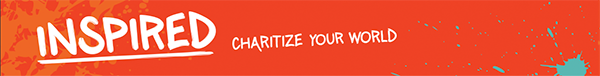
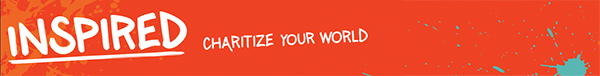
masthead

Changed region(s): [[0.0, 0.0, 0.69, 1.0], [0.6, 0.9474, 0.69, 1.0], [0.24, 0.0, 0.27, 0.0263]]

diff --git a/impact/index.html b/impact/index.html
@@ -107,7 +107,7 @@
 </table>
 <!-- End of preheader -->       
 <!-- Start of header 1-->
-<table width="100%" bgcolor="#f5f5f5" cellpadding="0" cellspacing="0" border="0" id="backgroundTable" st-sortable="header">
+<table width="100%" bgcolor="#f5f5f5" cellpadding="0" cellspacing="0" border="0" id="backgroundTable" st-sortable="banner">
    <tbody>
       <tr>
          <td>
@@ -119,11 +119,11 @@
                            <tbody>
                               <tr>
                                  <td>
-                                    <!-- logo and links-->
-                                    <table bgcolor="#ffffff" width="600" align="left" border="0" cellpadding="0" cellspacing="0" class="devicewidth">
+                                    <!-- logo masthead-->
+                                    <table bgcolor="#ffffff" width="600" align="center" border="0" cellpadding="0" cellspacing="0" class="devicewidth">
                                        <tbody>
                                           <tr>
-                                             <td width="600" height="37" align="center">
+                                             <td align="center" st-image="banner-image">
                                                 <div class="imgpop">
                                                    <a target="_blank" href="#">
                                                    <img src="http://dmitri.github.io/jet/impact/images/masthead.png" alt="" border="0" width="600" height="76" style="display:block; border:none; outline:none; text-decoration:none;">
@@ -131,16 +131,6 @@
                                                 </div>
                                              </td>
                                           </tr>
-                                          <tr>
-                                             <td height="37" align="center" valign="middle" style="font-family: Helvetica, arial, sans-serif; font-size: 13px;color: #282828" st-content="menu">
-                                                <a href="#" style="color: #282828;text-decoration: none; font-weight: bold;">Degree Programs</a>
-                                                &nbsp;|&nbsp;
-                                                <a href="#" style="color: #282828;text-decoration: none; font-weight: bold;">Certificates</a>
-                                                &nbsp;|&nbsp;
-                                                <a href="#" style="color: #282828;text-decoration: none; font-weight: bold;">Courses</a>
-                                                &nbsp;&nbsp;&nbsp;
-                                             </td>
-                                          </tr>
                                        </tbody>
                                     </table>
                                  </td>
@@ -157,15 +147,15 @@
 </table>
 <!-- End of Header -->
 
-<!-- Start of horizontal rule -->
-<table width="100%" bgcolor="#ffffff" cellpadding="0" cellspacing="0" border="0" id="backgroundTable" st-sortable="separator">
+<!-- Start of spacer -->
+<table width="100%" bgcolor="#f5f5f5" cellpadding="0" cellspacing="0" border="0" id="backgroundTable" st-sortable="separator">
    <tbody>
       <tr>
          <td>
             <table width="600" align="center" cellspacing="0" cellpadding="0" border="0" class="devicewidth">
                <tbody>
                   <tr>
-                     <td align="center" height="60" style="font-size:1px; line-height:1px;"><hr color="#cccccc" /></td>
+                     <td align="center" height="20" style="font-size:1px; line-height:1px;">&nbsp;</td>
                   </tr>
                </tbody>
             </table>
@@ -173,79 +163,10 @@
       </tr>
    </tbody>
 </table>
-<!-- End of horizontal rule -->
-
-<!-- Start of header 2-->
-<table width="100%" bgcolor="#ffffff" cellpadding="0" cellspacing="0" border="0" id="backgroundTable" st-sortable="header">
-   <tbody>
-      <tr>
-         <td>
-            <table width="600" cellpadding="0" cellspacing="0" border="0" align="center" class="devicewidth">
-               <tbody>
-                  <tr>
-                     <td width="100%">
-                        <table width="600" bgcolor="#ffffff" cellpadding="0" cellspacing="0" border="0" align="center" class="devicewidth">
-                           <tbody>
-                              <tr>
-                                 <td>
-                                    <!-- logo and links-->
-                                    <table bgcolor="#ffffff" width="600" align="left" border="0" cellpadding="0" cellspacing="0" class="devicewidth">
-                                       <tbody>
-                                          <tr>
-                                             <td width="600" height="37" align="center">
-                                                <div class="imgpop">
-                                                   <a target="_blank" href="#">
-                                                   <img src="http://online.berklee.edu/assets/berklee-online-logo-red-gray.png" alt="" border="0" width="222" height="37" style="display:block; border:none; outline:none; text-decoration:none;">
-                                                   </a>
-                                                </div>
-                                             </td>
-                                          </tr>
-                                          <tr>
-                                             <td height="37" align="center" valign="middle" style="font-family: Helvetica, arial, sans-serif; font-size: 13px;color: #282828" st-content="menu">
-                                                <a href="#" style="color: #282828;text-decoration: none; font-weight: bold;">Degree Programs</a>
-                                                &nbsp;|&nbsp;
-                                                <a href="#" style="color: #282828;text-decoration: none; font-weight: bold;">Certificates</a>
-                                                &nbsp;|&nbsp;
-                                                <a href="#" style="color: #282828;text-decoration: none; font-weight: bold;">Courses</a>
-                                                &nbsp;&nbsp;&nbsp;
-                                             </td>
-                                          </tr>
-                                       </tbody>
-                                    </table>
-                                 </td>
-                              </tr>
-                           </tbody>
-                        </table>
-                     </td>
-                  </tr>
-               </tbody>
-            </table>
-         </td>
-      </tr>
-   </tbody>
-</table>
-<!-- End of Header -->
-
-<!-- Start of horizontal rule -->
-<table width="100%" bgcolor="#ffffff" cellpadding="0" cellspacing="0" border="0" id="backgroundTable" st-sortable="separator">
-   <tbody>
-      <tr>
-         <td>
-            <table width="600" align="center" cellspacing="0" cellpadding="0" border="0" class="devicewidth">
-               <tbody>
-                  <tr>
-                     <td align="center" height="60" style="font-size:1px; line-height:1px;"><hr color="#cccccc" /></td>
-                  </tr>
-               </tbody>
-            </table>
-         </td>
-      </tr>
-   </tbody>
-</table>
-<!-- End of horizontal rule -->
+<!-- End of spacer -->
 
 <!-- Start of main-banner -->
-<table width="100%" bgcolor="#ffffff" cellpadding="0" cellspacing="0" border="0" id="backgroundTable" st-sortable="banner">
+<table width="100%" bgcolor="#f5f5f5" cellpadding="0" cellspacing="0" border="0" id="backgroundTable" st-sortable="banner">
    <tbody>
       <tr>
          <td>
@@ -259,7 +180,7 @@
                                  <!-- start of image -->
                                  <td align="center" st-image="banner-image">
                                     <div class="imgpop">
-                                       <a target="_blank" href="#"><img width="600" border="0" height="300" alt="" border="0" style="display:block; border:none; outline:none; text-decoration:none;" src="http://placehold.it/600x300&text=600x300-Hero" class="banner"></a>
+                                       <a target="_blank" href="#"><img width="600" border="0" height="76" alt="" border="0" style="display:block; border:none; outline:none; text-decoration:none;" src="http://dmitri.github.io/jet/impact/images/masthead.png" class="banner"></a>
                                     </div>
                                  </td>
                               </tr>
